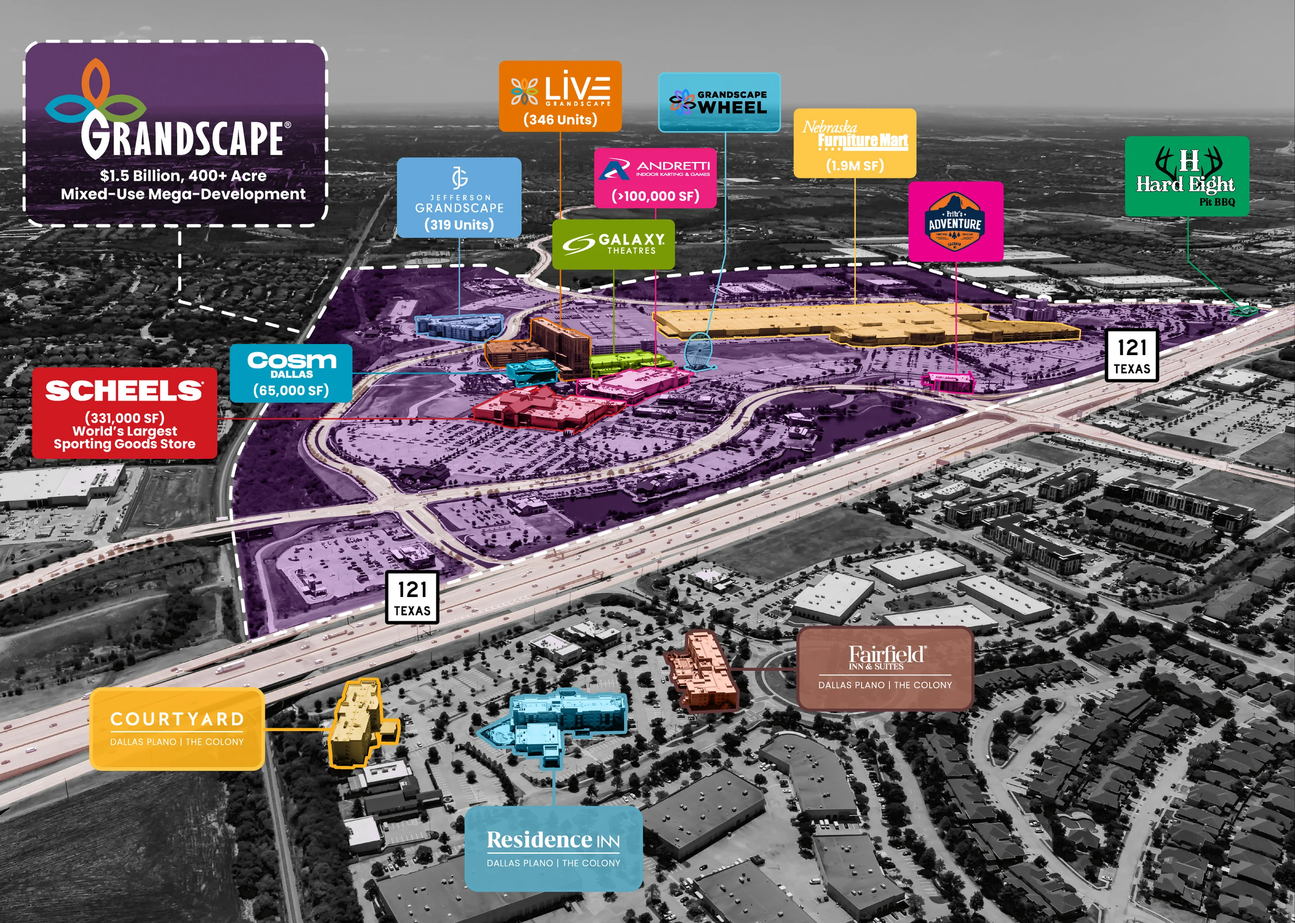
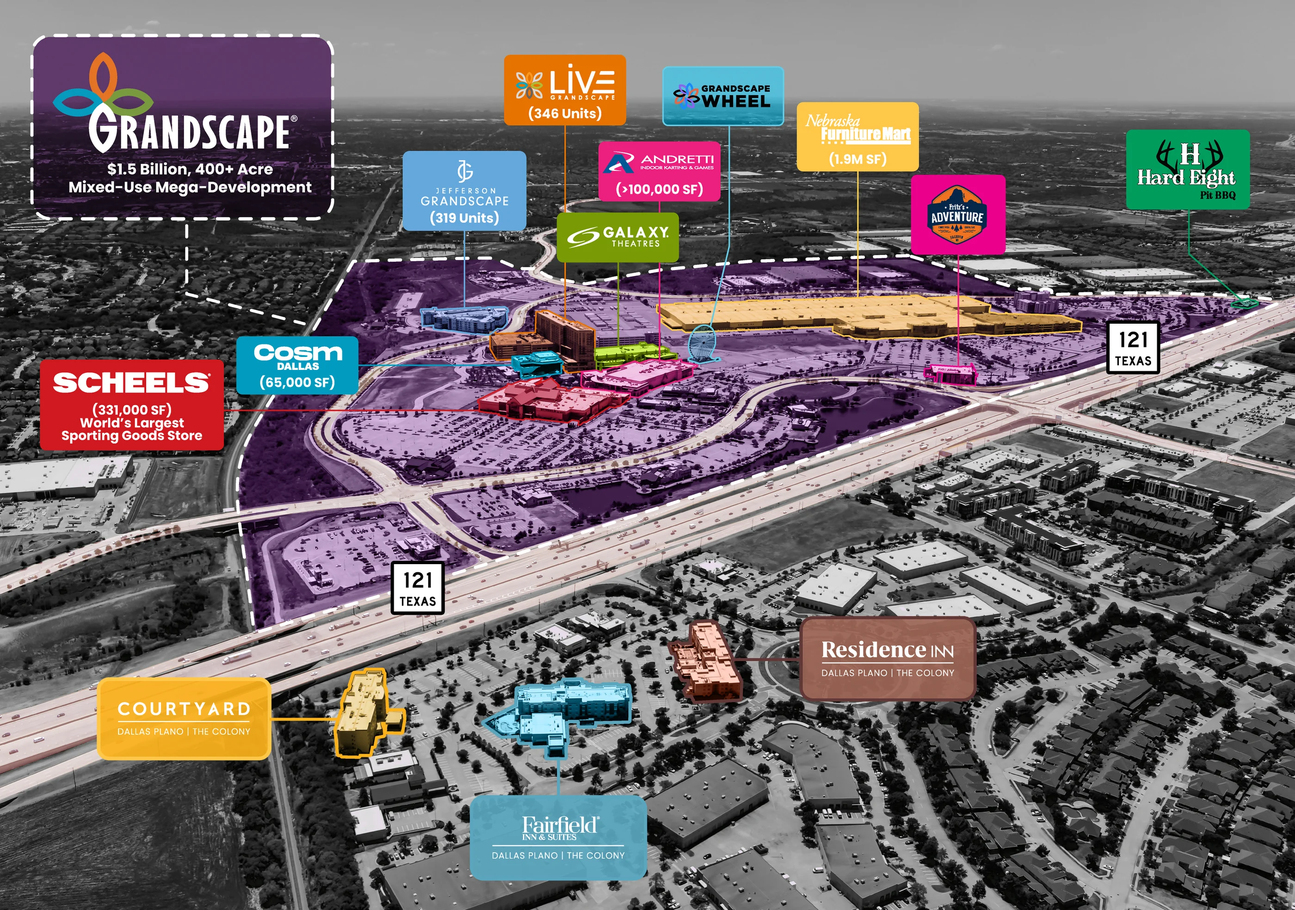
Grandscape: aerial v2, with the container aspect follo	wing it
GrandScapes-Mark-up-lowres2.jpg replaces v1. Notably it reassigns the
hotel labels — Fairfield Inn & Suites and Residence Inn now sit on
different buildings than in v1 — which settles the building-identity
question flagged when this section was first built.

Its aspect moved 1.4028 -> 1.4228, so the container aspect-ratio moved
with it (3500/2460). Left at the old value, object-fit:cover would have
shaved the Grandscape block and the Fairfield label off the edges.
Verified rendered aspect 1.4228 against a 1.4228 source.

Zoom/pan re-checked on the new artwork: clamp still caps at 30%.

diff --git a/assets/css/site.css b/assets/css/site.css
@@ -704,10 +704,10 @@ button.fig:hover .fig__zoom,button.fig:focus-visible .fig__zoom{ opacity:1; tran
   position:relative; overflow:hidden; display:block; width:100%;
   padding:0; border:0; background:var(--ink-deep); box-shadow:var(--shadow-card);
 }
-/* the annotated aerial is 3158x2251 — match it exactly so object-fit never
+/* the annotated aerial is 3500x2460 — match it exactly so object-fit never
    crops the Grandscape block off the top or the hotel labels off the bottom */
 .aerial > img{
-  width:100%; aspect-ratio:3158 / 2251; object-fit:cover; display:block;
+  width:100%; aspect-ratio:3500 / 2460; object-fit:cover; display:block;
   transform-origin:center center;
   transition:transform .75s var(--ease);
   will-change:transform;
